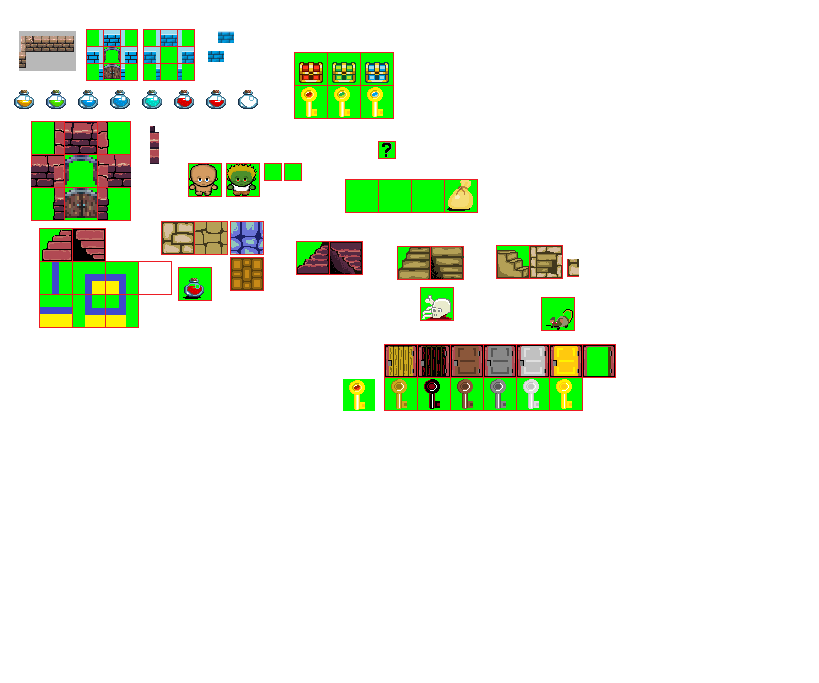
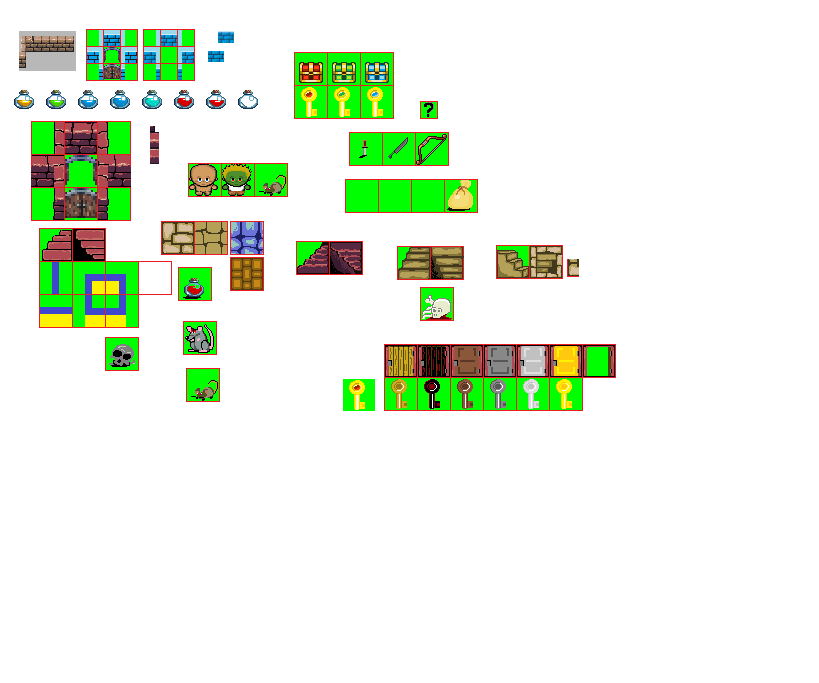
yo

diff --git a/rogue-js/src/components/tiles-render/texture-mapping.js b/rogue-js/src/components/tiles-render/texture-mapping.js
@@ -1,5 +1,10 @@
 import { BIOMES } from "../../game";
-import { TYPE_OBJECT, CHEST_KIND, DOOR_KIND } from "../../game/objects";
+import {
+  TYPE_OBJECT,
+  CHEST_KIND,
+  DOOR_KIND,
+  WEAPON_LIST_CODE,
+} from "../../game/objects";
 import { TYPE_ENNEMIES } from "../../game/ennemies/commons/type-ennemies";
 
 const ON_CENTER = 0b000010000;
@@ -25,16 +30,16 @@ export function getGroundTex(biome) {
 }
 
 export function getPlayerTex() {
-  return { x: 49, y: 1, width: 32, height: 32 };
+  return { x: 1, y: 327, width: 32, height: 32 };
 }
 
 export function getEnemyTex(enemy) {
   const { type } = enemy;
   switch (type) {
     case TYPE_ENNEMIES.rat:
-      return { x: 113, y: 1, width: 32, height: 32 };
+      return { x: 67, y: 327, width: 32, height: 32 };
     default:
-      return { x: 82, y: 1, width: 32, height: 32 };
+      return { x: 34, y: 327, width: 32, height: 32 };
   }
 }
 
@@ -50,7 +55,8 @@ export function getPotionTex() {
 
 function getChest(chest) {
   const { kind } = chest;
-  switch (kind) {
+  const { id } = kind;
+  switch (id) {
     case CHEST_KIND.red:
       return { x: 113, y: 65, width: 32, height: 32 };
     case CHEST_KIND.green:
@@ -79,11 +85,11 @@ function getKey(key) {
     case DOOR_KIND.bronze:
       return { x: 67, y: 294, width: 32, height: 32 };
     case DOOR_KIND.iron:
-      return { x: 99, y: 294, width: 32, height: 32 };
+      return { x: 100, y: 294, width: 32, height: 32 };
     case DOOR_KIND.silver:
-      return { x: 132, y: 294, width: 32, height: 32 };
+      return { x: 133, y: 294, width: 32, height: 32 };
     case DOOR_KIND.gold:
-      return { x: 165, y: 294, width: 32, height: 32 };
+      return { x: 166, y: 294, width: 32, height: 32 };
     default:
       return { x: 113, y: 98, width: 32, height: 32 };
   }
@@ -105,11 +111,11 @@ function getDoorTex(door) {
     case DOOR_KIND.bronze:
       return { ...base, x: 67 };
     case DOOR_KIND.iron:
-      return { ...base, x: 99 };
+      return { ...base, x: 100 };
     case DOOR_KIND.silver:
-      return { ...base, x: 132 };
+      return { ...base, x: 133 };
     case DOOR_KIND.gold:
-      return { ...base, x: 165 };
+      return { ...base, x: 166 };
     default:
       return { ...base, x: 500 };
   }
@@ -135,9 +141,24 @@ export function getCorpseTex() {
   return { x: 212, y: 98, width: 32, height: 32 };
 }
 
+function getWeaponText(weapon) {
+  const { code } = weapon;
+  switch (code) {
+    case WEAPON_LIST_CODE.sword:
+      return { x: 34, y: 479, width: 32, height: 32 };
+    case WEAPON_LIST_CODE.knife:
+    case WEAPON_LIST_CODE.bow:
+    default:
+      return { x: 1, y: 479, width: 32, height: 32 };
+  }
+}
+
 export function getObjectTex(object) {
   const { type } = object;
   switch (type) {
+    case TYPE_OBJECT.meleeWeapon:
+    case TYPE_OBJECT.distanceWeapon:
+      return getWeaponText(object);
     case TYPE_OBJECT.chest:
       return getChest(object);
     case TYPE_OBJECT.key:

diff --git a/rogue-js/src/game/ennemies/create-ennemies-dungeon.js b/rogue-js/src/game/ennemies/create-ennemies-dungeon.js
@@ -5,35 +5,54 @@ import { popOne } from "../commons";
 let INDEX = 0;
 const DENSITY = 1 / 50;
 
-function fillLevel(state, level, sumXp, empties) {
-  const nb = Math.round(empties.count(level) * DENSITY);
+// function fillLevel(state, level, sumXp, empties) {
+//   const nb = Math.round(empties.count(level) * DENSITY);
 
-  return new Array(nb).fill(undefined).reduce(
-    function ([ennemies, currXp]) {
-      const position = empties.popOne(level);
-      const enemy = {
-        ...createEnemy(currXp),
-        id: `enemy-${INDEX++}`,
-        position,
-        level,
-      };
-      return [[...ennemies, enemy], currXp + enemyXpValue(enemy)];
-    },
-    [[], sumXp]
-  );
+//   return new Array(nb).fill(undefined).reduce(
+//     function ([ennemies, currXp]) {
+//       const position = empties.popOne(level);
+//       const enemy = {
+//         ...createEnemy(currXp),
+//         id: `enemy-${INDEX++}`,
+//         position,
+//         level,
+//       };
+//       return [[...ennemies, enemy], currXp + enemyXpValue(enemy)];
+//     },
+//     [[], sumXp]
+//   );
+// }
+
+// function createEnnemies(state, empties) {
+//   const { dungeon } = state;
+//   const dungeonHeight = dungeon.getDungeonHeight();
+//   const [ennemies] = new Array(dungeonHeight).fill(undefined).reduce(
+//     function ([levels, sumXp], _, i) {
+//       const [level, levelXp] = fillLevel(state, i, sumXp, empties);
+//       return [[...levels, level], sumXp + levelXp];
+//     },
+//     [[], 0]
+//   );
+//   return ennemies;
+// }
+
+function fillLevel() {
+  const ennemies = [];
+  const sumXp = 0;
+  return [ennemies, sumXp];
 }
 
 function createEnnemies(state, empties) {
   const { dungeon } = state;
-  const dungeonHeight = dungeon.getDungeonHeight();
-  const [ennemies] = new Array(dungeonHeight).fill(undefined).reduce(
-    function ([levels, sumXp], _, i) {
-      const [level, levelXp] = fillLevel(state, i, sumXp, empties);
-      return [[...levels, level], sumXp + levelXp];
+  const [dungeonEnnemies] = dungeon.getLevels().reduce(
+    function ([ennemies, sumXp], level) {
+      const [levelEnnemies, levelSumXp] = fillLevel(level, sumXp);
+      return [[...ennemies, levelEnnemies], sumXp + levelSumXp];
     },
     [[], 0]
   );
-  return ennemies;
+
+  return dungeonEnnemies;
 }
 
 export default createEnnemies;

diff --git a/rogue-js/src/game/objects/create-chest.js b/rogue-js/src/game/objects/create-chest.js
@@ -8,8 +8,6 @@ let INDEX = 0;
 
 const TYPES = {
   chest: {
-    code: "chest",
-    desc: "un coffre",
     size: 0,
     type: typeObject.chest,
   },
@@ -22,7 +20,7 @@ const CHEST_KIND_LIST = [
 ];
 export const CHEST_KIND = CHEST_KIND_LIST.reduce(function (a, k) {
   const { id } = k;
-  return { ...a, [id]: k };
+  return { ...a, [id]: id };
 }, {});
 
 const KEY_KIND_LIST = [
@@ -37,10 +35,11 @@ export const KEY_KIND = KEY_KIND_LIST.reduce(function (a, k) {
 
 function createChest(level, posChest, posKey) {
   const chestId = `chest-id-${INDEX++}`;
-  const kind = KEY_KIND_LIST[randomInt(KEY_KIND_LIST.length)];
+  const index = randomInt(KEY_KIND_LIST.length);
+  const kind = CHEST_KIND_LIST[index];
   const chest = {
     ...TYPES.chest,
-    desc: ({ kind }) => `une porte ${kind.desc}`,
+    desc: ({ kind }) => `un coffre ${kind.desc}`,
     id: chestId,
     lockId: chestId,
     kind,
@@ -58,7 +57,6 @@ function createChest(level, posChest, posKey) {
     [chest],
     ({ kind }) => `une clef de coffre ${kind.desc}`
   );
-
   return [chest, key];
 }
 

diff --git a/rogue-js/src/components/canvas-render.js b/rogue-js/src/components/canvas-render.js
@@ -58,8 +58,8 @@ function computeClickPos({ player, dungeon }, [cx, cy], rect) {
   const { x, y } = rect;
   return x + cx + +(y + cy) * dungeonWidth;
 }
-
-function CanvasRenderer({ viewSize, tileSize = 16, size = 19 * tileSize }) {
+// ({ viewSize, tileSize = 16, size = 19 * tileSize })
+function CanvasRenderer({ viewSize, tileSize = 16, size = 11 * tileSize }) {
   const canvas = useRef(null);
   const [mousePos, setMousePos] = useState(undefined);
   const [offscreen, setOffscreen] = useState(null);

diff --git a/rogue-js/src/components/game.js b/rogue-js/src/components/game.js
@@ -79,7 +79,7 @@ function Game() {
       <div className="game">
         <PlayerConsole />
         <div className="game-row">
-          <CanvasRender viewSize={fov + 1} tileSize={16} />
+          <CanvasRender viewSize={fov + 1} tileSize={32} />
           <ActionConsole />
           <div className="game-paddle">
             <Pad />

diff --git a/rogue-js/src/game/objects/type-object.js b/rogue-js/src/game/objects/type-object.js
@@ -2,13 +2,10 @@ export default {
   simple: "object/simple",
   meleeWeapon: "object/melee-weapon",
   distanceWeapon: "object/distance-bow",
-
   ammo: "object/ammo",
   ammunition: "object/ammunition",
   armor: "object/armor",
-
   potion: "object/potion",
-
   chest: "object/chest",
   corpse: "object/corpse",
   key: "object/key",

diff --git a/rogue-js/src/game/player/create-player.js b/rogue-js/src/game/player/create-player.js
@@ -3,7 +3,7 @@ import { createKnife, createSword, createBow, createArrows } from "../objects";
 import { popOne } from "../commons";
 import { createStats, computeNextLevelXp, computeMaxLife } from "../fight";
 
-const DEFAULT_FOV = 6;
+const DEFAULT_FOV = 4;
 const DEFAULT_NB_MOVE = 2000;
 
 function createBasePlayer(

diff --git a/rogue-js/src/game/objects/weapons.js b/rogue-js/src/game/objects/weapons.js
@@ -39,6 +39,14 @@ export const WEAPONS_MAP = {
   },
 };
 
+export const WEAPON_LIST_CODE = Object.entries(WEAPONS_MAP).reduce(function (
+  a,
+  [k, { code }]
+) {
+  return { ...a, [k]: code };
+},
+{});
+
 export const WEAPONS_CODE_TO_OBJECT = Object.keys(WEAPONS_MAP).reduce(function (
   a,
   o
